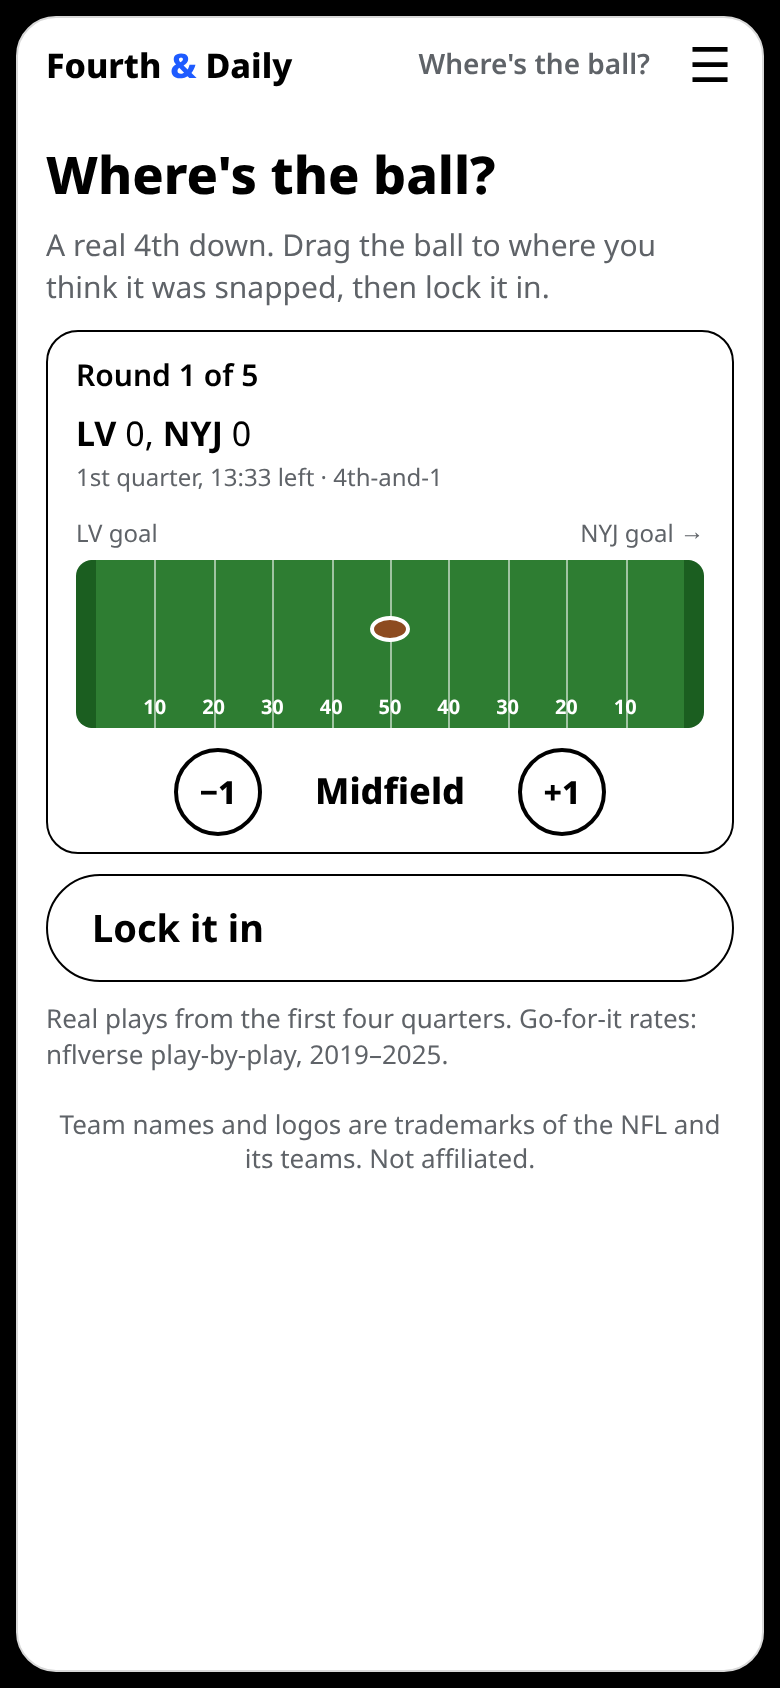
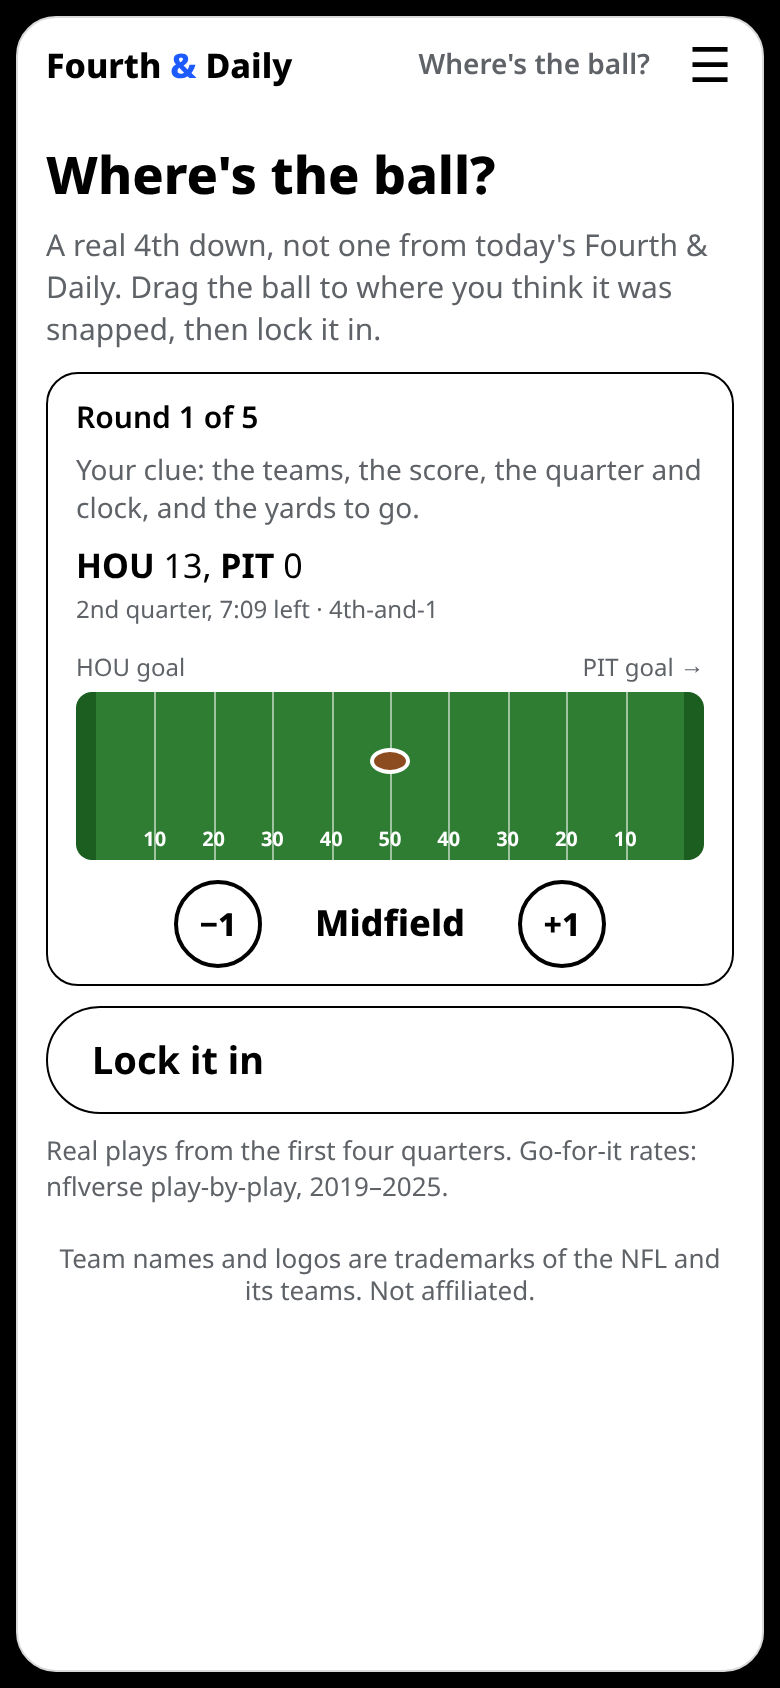
E5: own pool excluding that date's Fourth & Daily plays (salted seed), year-long no-overlap test, clue line, refreshed screenshots

diff --git a/frontend/lib/wheresBall.ts b/frontend/lib/wheresBall.ts
@@ -1,8 +1,10 @@
 import pack from "./dailyPack.json";
 import retired from "./retiredDailyIds.json";
+import { dailySet, dateKey } from "./daily";
 
 export type BallRound = {
-  id: string; posteam: string; defteam: string; posScore: number; defScore: number;
+  /** Pack item id. */ id: string;
+  /** nflverse "game_id-play_id", the id the daily schedule and retired list use. */ playKey: string; posteam: string; defteam: string; posScore: number; defScore: number;
   qtr: number; secs: number; down: number; distance: number; yardline100: number; action: string;
 };
 
@@ -20,7 +22,7 @@ export function eligibleRounds(items: PackItem[] = (pack as { items: PackItem[] 
   return items
     .filter((it) => it.kind === "historical" && it.source && !retiredSet.has(`${it.source.game_id}-${it.source.play_id}`) && it.situation.qtr <= 4)
     .map((it) => ({
-      id: it.id, posteam: it.situation.posteam, defteam: it.situation.defteam,
+      id: it.id, playKey: `${it.source!.game_id}-${it.source!.play_id}`, posteam: it.situation.posteam, defteam: it.situation.defteam,
       posScore: it.situation.posteam_score, defScore: it.situation.defteam_score,
       qtr: it.situation.qtr, secs: it.situation.quarter_seconds_remaining,
       down: it.situation.down, distance: it.situation.distance, yardline100: it.situation.yardline_100,
@@ -34,9 +36,27 @@ function hash(s: string) {
   return h >>> 0;
 }
 
-/** Five distinct rounds, same for everyone on a given day. */
-export function roundsFor(day: string, pool = eligibleRounds()): BallRound[] {
-  return [...pool].sort((a, b) => hash(day + a.id) - hash(day + b.id)).slice(0, ROUNDS_PER_GAME);
+/** Ids of that date's Fourth & Daily plays (both id forms), so this game never repeats them. */
+export function dailyIdsFor(day: string): Set<string> {
+  const ids = new Set<string>();
+  for (const it of dailySet(day)) {
+    ids.add(it.id);
+    if (it.source.play_id !== undefined) ids.add(`${it.source.game_id}-${it.source.play_id}`);
+  }
+  return ids;
+}
+
+/**
+ * Five distinct rounds for an ET date key: the eligible pool minus that date's daily plays,
+ * ordered by a hash salted "wheres-ball:" so it is independent of the daily shuffle.
+ * Does not touch the daily schedule.
+ */
+export function roundsFor(day: string = dateKey(), pool = eligibleRounds()): BallRound[] {
+  const daily = dailyIdsFor(day);
+  return pool
+    .filter((r) => !daily.has(r.id) && !daily.has(r.playKey))
+    .sort((a, b) => hash(`wheres-ball:${day}:${a.id}`) - hash(`wheres-ball:${day}:${b.id}`) || (a.id < b.id ? -1 : 1))
+    .slice(0, ROUNDS_PER_GAME);
 }
 
 /** 100 minus 2 per yard off, floored at 0. */

diff --git a/frontend/components/WheresBall.tsx b/frontend/components/WheresBall.tsx
@@ -5,7 +5,6 @@ import { roundsFor, roundScore, clampSpot, ROUNDS_PER_GAME, type BallRound } fro
 import { goRates, cellAt, pct, spotLabel } from "../lib/goRates";
 import { Header, Trademark } from "./SimpleGame";
 
-const today = () => new Date().toISOString().slice(0, 10);
 const clock = (s: number) => `${Math.floor(s / 60)}:${String(s % 60).padStart(2, "0")}`;
 const ord = ["", "1st", "2nd", "3rd", "4th"];
 
@@ -41,7 +40,7 @@ function Field({ guess, actual, onMove, r }: { guess: number; actual: number | n
 }
 
 export function WheresBall() {
-  const rounds = useMemo(() => roundsFor(today()), []);
+  const rounds = useMemo(() => roundsFor(), []);
   const [i, setI] = useState(0);
   const [guess, setGuess] = useState(50);
   const [shown, setShown] = useState(false);
@@ -67,9 +66,10 @@ export function WheresBall() {
         </section>
       ) : (
         <>
-          <p className="kb-lede">A real 4th down. Drag the ball to where you think it was snapped, then lock it in.</p>
+          <p className="kb-lede">A real 4th down, not one from today's Fourth & Daily. Drag the ball to where you think it was snapped, then lock it in.</p>
           <section className="kb-hero ch-pick">
             <div className="era-pick-h">Round {i + 1} of {ROUNDS_PER_GAME}</div>
+            <p className="wb-clue">Your clue: the teams, the score, the quarter and clock, and the yards to go.</p>
             <div className="wb-sit">
               <strong>{r.posteam}</strong> {r.posScore}, <strong>{r.defteam}</strong> {r.defScore}
               <div className="mc-sub">{ord[r.qtr]} quarter, {clock(r.secs)} left · 4th-and-{r.distance}</div>

diff --git a/frontend/lib/wheresBall.test.ts b/frontend/lib/wheresBall.test.ts
@@ -2,6 +2,7 @@ import { readFileSync } from "node:fs";
 import { test } from "node:test";
 import assert from "node:assert/strict";
 import retired from "./retiredDailyIds.json";
+import { dailySet } from "./daily";
 import { eligibleRounds, roundsFor, roundScore, clampSpot } from "./wheresBall";
 
 test("pool skips retired and overtime plays", () => {
@@ -9,7 +10,7 @@ test("pool skips retired and overtime plays", () => {
   assert.ok(pool.length >= 5);
   assert.ok(pool.every((r) => r.qtr <= 4));
   const ids = new Set(retired as string[]);
-  assert.ok(pool.every((r) => !ids.has(r.id)));
+  assert.ok(pool.every((r) => !ids.has(r.playKey)));
 });
 test("five distinct rounds, stable per day", () => {
   const a = roundsFor("2026-10-28");
@@ -29,4 +30,17 @@ test("gorates.json matches data/site exactly", () => {
   const b = readFileSync(new URL("../../data/site/gorates.json", import.meta.url), "utf8");
   assert.equal(a, b);
   assert.equal(typeof JSON.parse(a).dataThrough, "string");
+});
+
+test("never overlaps that date's 5 daily plays, every day for a year", () => {
+  const start = Date.UTC(2026, 9, 26);
+  for (let d = 0; d < 366; d++) {
+    const day = new Date(start + d * 86400000).toISOString().slice(0, 10);
+    const daily = dailySet(day);
+    assert.equal(daily.length, 5);
+    const dailyKeys = new Set(daily.flatMap((it) => [it.id, `${it.source.game_id}-${it.source.play_id}`]));
+    const rounds = roundsFor(day);
+    assert.equal(rounds.length, 5, day);
+    for (const r of rounds) assert.ok(!dailyKeys.has(r.id) && !dailyKeys.has(r.playKey), `${day} repeats ${r.playKey}`);
+  }
 });

diff --git a/frontend/app/globals.css b/frontend/app/globals.css
@@ -1806,3 +1806,4 @@ body { font-variant-numeric: tabular-nums; }
 .wb-spot{font-size:18px;font-weight:800;min-width:96px;text-align:center}
 .mc-chip{width:44px;height:44px;border-radius:50%;border:2px solid #000;background:#fff;font:inherit;font-weight:800;cursor:pointer}
 .mc-total{font-size:22px;font-weight:800;text-align:center;margin:8px 0}
+.wb-clue{margin:4px 0 0;font-size:14px;color:var(--sg-g)}
